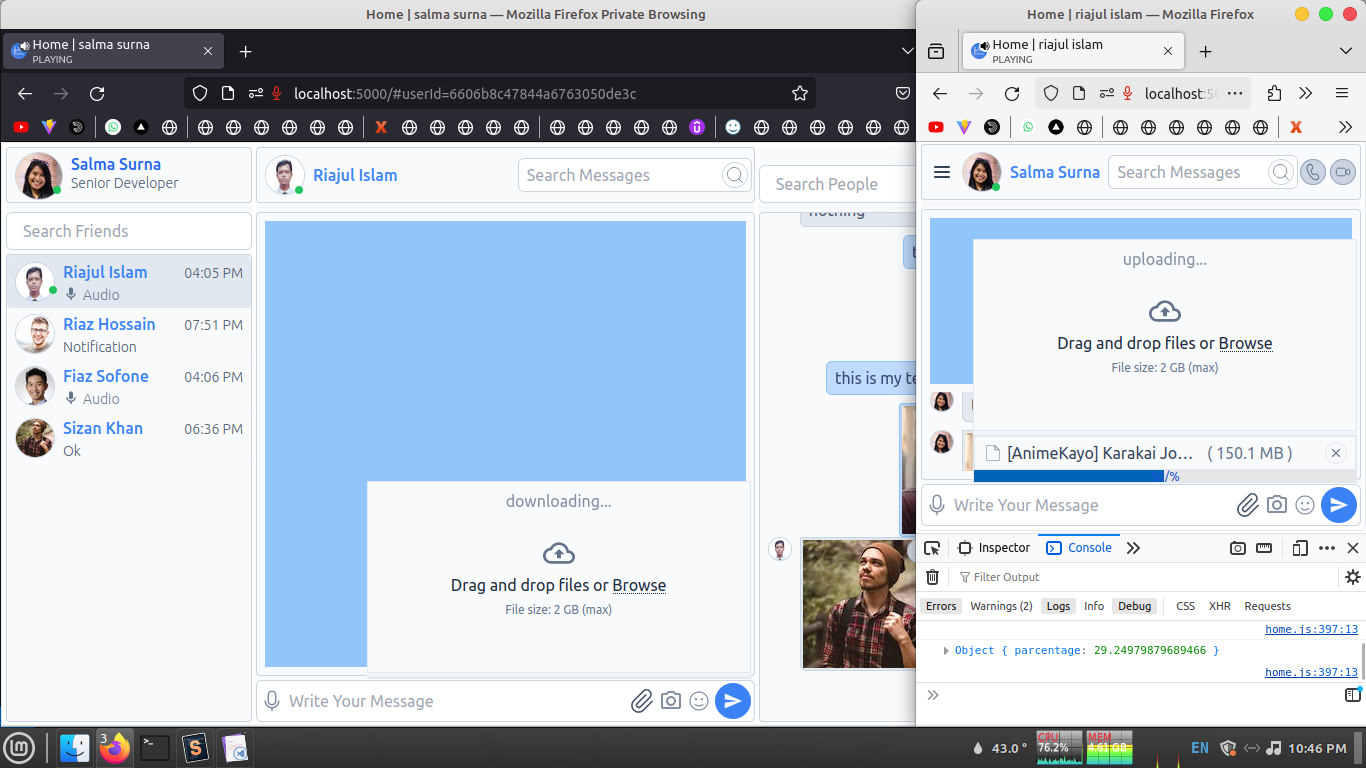
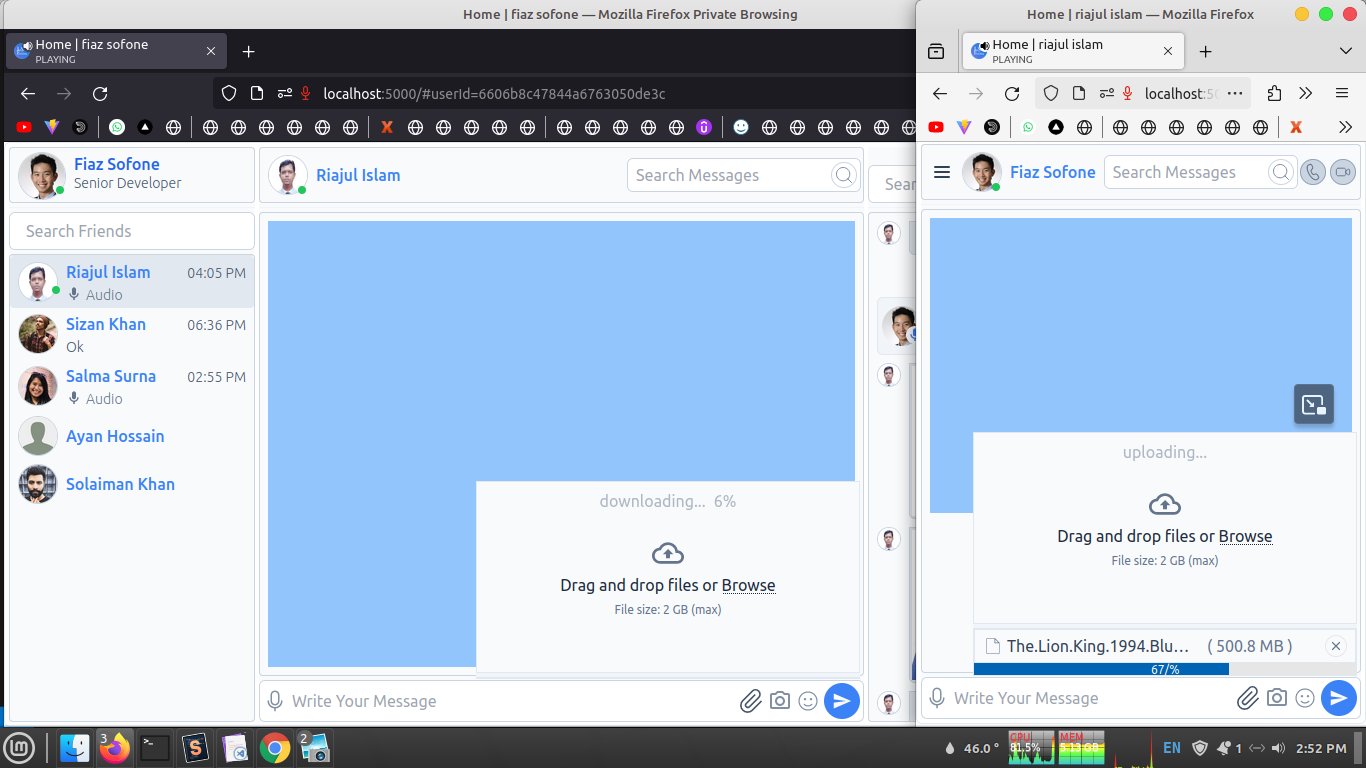
bug fixed: downloaded side shows wrong parcentage value, which was corrected

diff --git a/public/js/page/home.js b/public/js/page/home.js
@@ -387,10 +387,12 @@ const showDragItemsInUI = (fileArray) => {
 				webRTC.sendFileByDataChannel(value) 			// send arrayBuffer of stream
 				ui.addDragAndDropUploadingIndicator()
 
+
 				const parcentage = (progressValue / totalSize ) * 100
 				increaseProgressValue(parcentage)
 
-				progressValue += value.length
+				// NB: sender-side: need to send parcentage value later, else shows wrong parcentageValue
+				progressValue += value.length 						// NB: this value is chunk of string
 			}
 
 			reader.read().then( ({ done, value }) => {

diff --git a/public/js/module/webRTC.js b/public/js/module/webRTC.js
@@ -464,10 +464,11 @@ const handleFileComesByDataChannel = ({ data }) => {
 	// Step-3: handle  every chunks: data is Blob : 
 	worker.postMessage(data)
 	
+	// NB: If progressValue shows after parcentageValue then it show wrong parcentage
+	progressValue += data.size 		// => data === Blob constructor
+
 	const parcentageValue = (progressValue / totalSize ) * 100
 	ui.addDragAndDropDownloadingIndicator(parcentageValue)
-
-	progressValue += data.size 		// => data === Blob constructor
 }
 
 // const downloadFile = (name) => {
